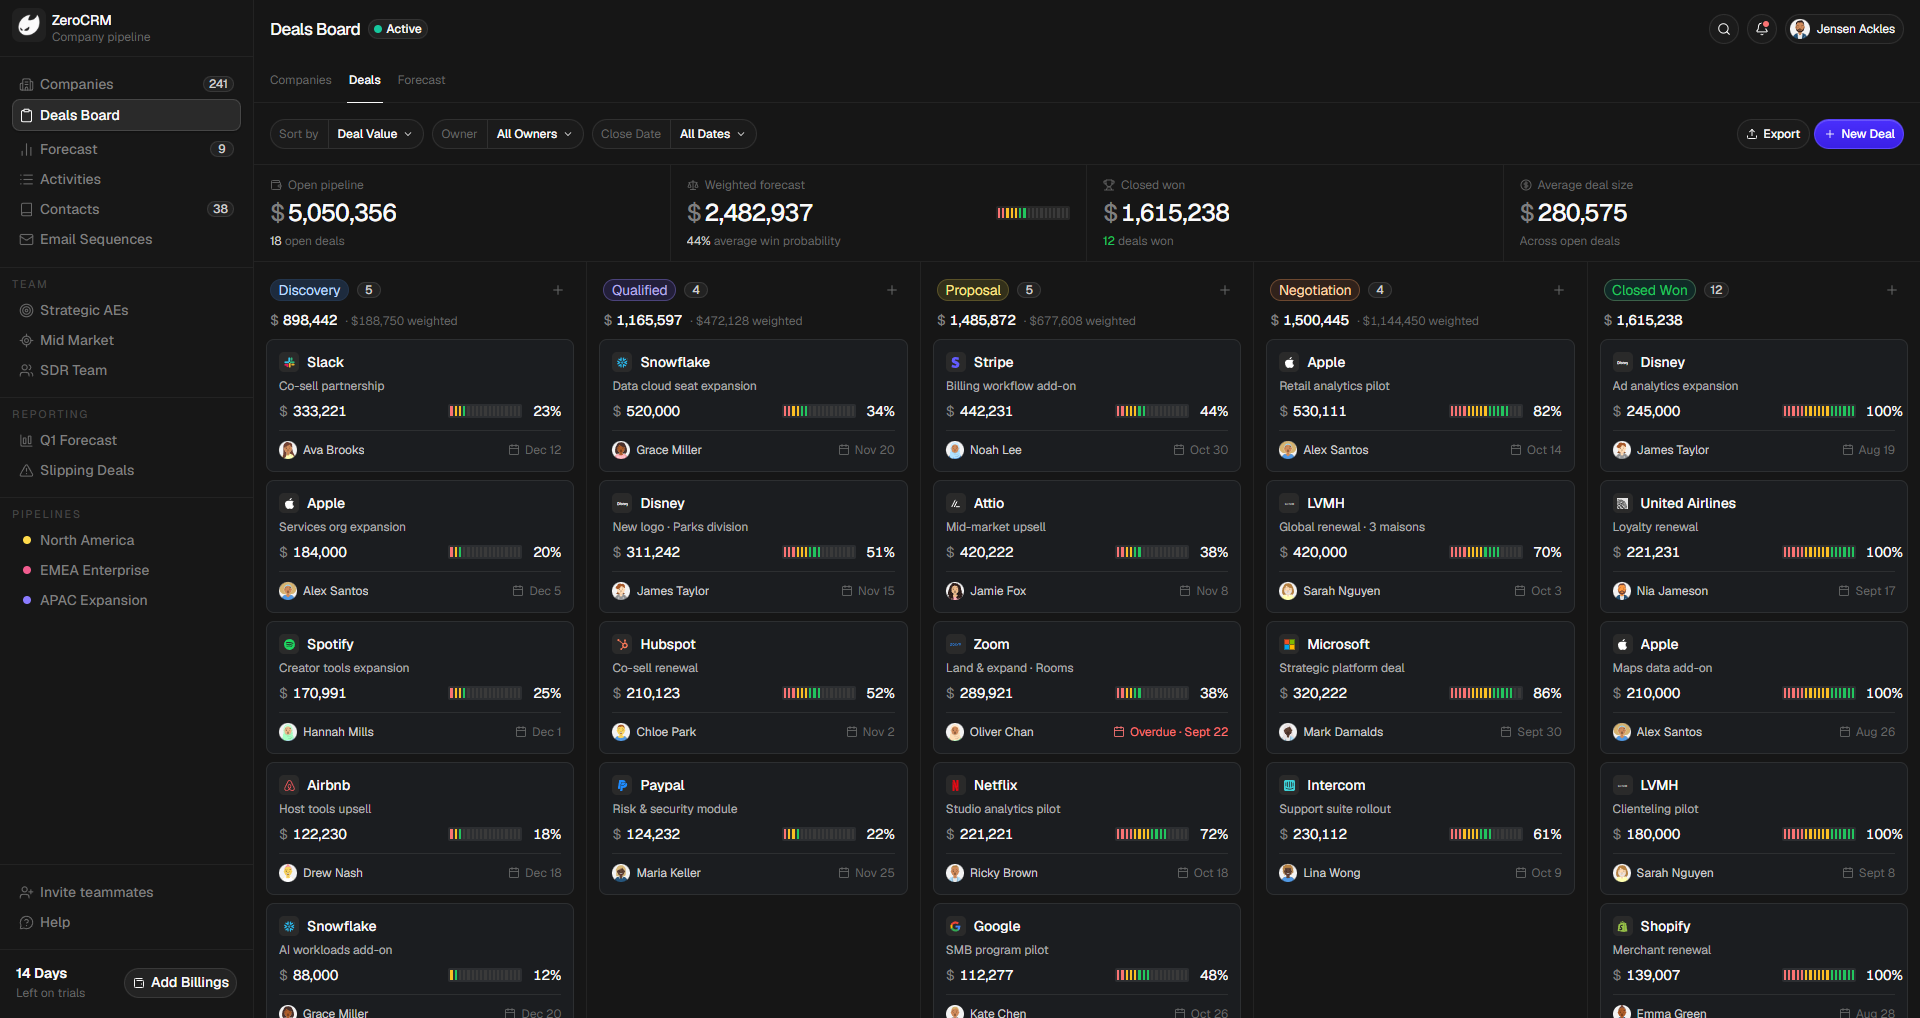
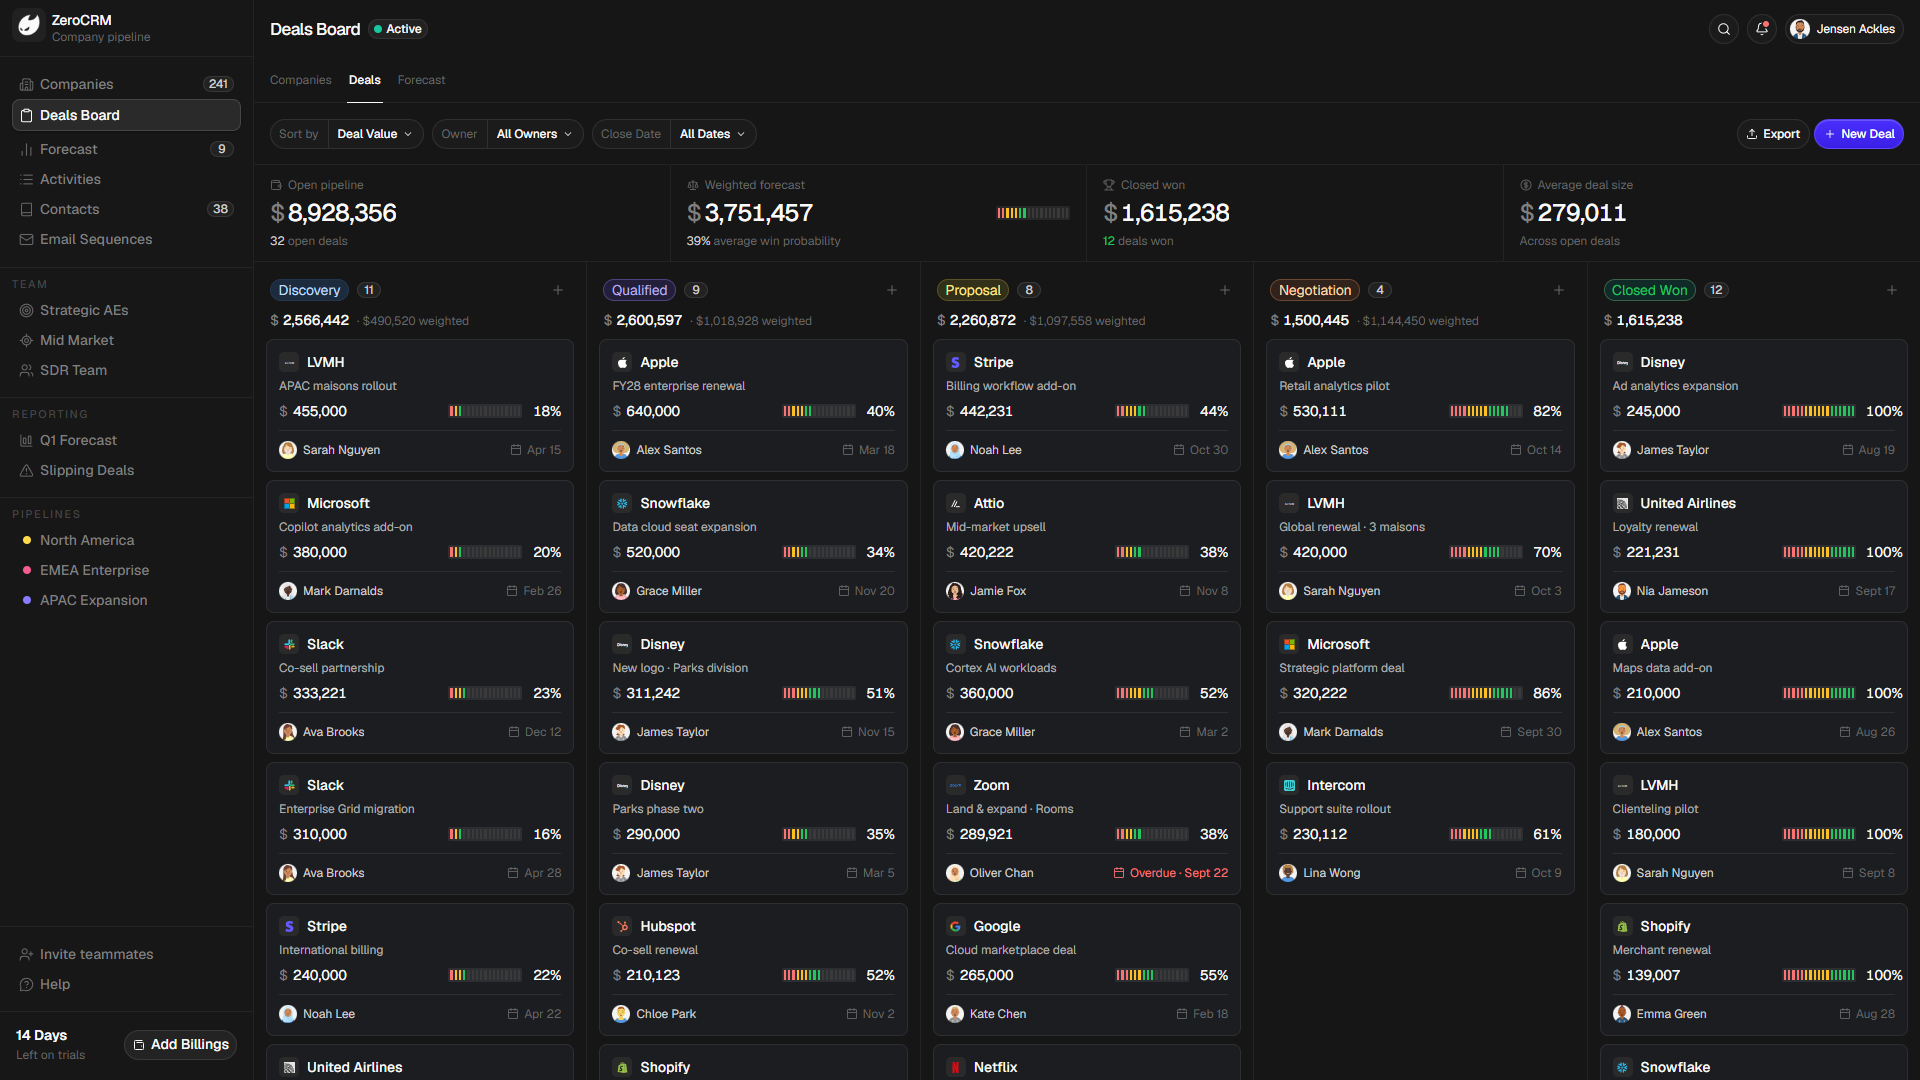
Q1 Forecast and Slipping Deals page done

diff --git a/DESIGN.md b/DESIGN.md
@@ -80,6 +80,12 @@ colors:
   scrim-modal: "rgba(0,0,0,0.25)"   # + 6px backdrop blur
 
 typography:
+  display-hero:        # the single gauge readout on a report page (Q1 Forecast) — nothing else
+    fontFamily: "Geist, ui-sans-serif, system-ui, sans-serif"
+    fontSize: 40px
+    fontWeight: 600
+    lineHeight: 1
+    letterSpacing: -1.2px
   display-metric:
     fontFamily: "Geist, ui-sans-serif, system-ui, sans-serif"
     fontSize: 28px
@@ -562,6 +568,41 @@ components:
     hero: "'Meetings booked' 28px/600 count with '/quota' in 18px muted; % of quota + pacing % on the right; 34-segment bar"
     figures: "Calls · Emails · Connect rate"
     footer: "partner AE chip ('Books for …') + sourced $ · n deals; 14-week meetings sparkline"
+  radial-gauge:
+    geometry: "semicircle, 41 annular segments (R 148, 24px thick, 0.9° gaps) in a 320-wide viewBox, max 360px"
+    fill: "win-meter ramp (gradientColors) for round(attainment × 41) segments, rest {colors.meter-empty}"
+    marker: "2px {colors.ink} tick for the secured share, rotated into place on --ease-ios (700ms)"
+    readout: "{typography.display-hero} % inside the arc + {typography.label} projected $ + gap line ({colors.alert} short / {colors.meter-green} ahead)"
+    motion: "segments seg-in staggered 14ms; readout numbers count up with useTween"
+  waterfall:
+    height: 280px
+    columns: "six equal columns: sources float on the running total, a restacked total, then the gap (hatched coral) or cushion (hatched green)"
+    bars: "42% of column, max 64px, {rounded.bar}; not-yet-created value = dashed {colors.muted} outline on 4% white"
+    connectors: "1px dashed {colors.hairline-overlay} from each bar top to the next bar"
+    target: "dashed {colors.series-target} line across all columns with inline 'Quota $3.4M'"
+    labels: "value 12px above each bar; name {typography.control} + hint 11px under the baseline (short names on phones)"
+  scenario-tile:
+    look: "8px card, 1px {colors.border-card}; active = #55585c border + {colors.surface-card} fill + 6px {colors.live} dot"
+    content: "name {typography.control} · {typography.metric} $ · 34-segment win-meter-bar · % of quota + gap · 11px assumptions line"
+  bubble-chart:
+    axes: "x = close date (month dividers dashed 2 4), y = win probability 0–100% on hairlines"
+    bubble: "r ∝ √value (max 28px, 18px on phones), fill = stage tag text colour at 18% (32% hover), 1px stroke at 75%, 2px centre dot"
+    hover: "others dim to 35%, chart-tooltip (208px) with value / probability / weighted / close / owner; click opens the deal sheet"
+    labels: "company name beside bubbles ≥ $250K on desktop, flipped left near the edge"
+  slip-trail:
+    row: "grid 260px label · track · 132px values, 52px min (phones: label row over a full-width track)"
+    marks: "11px hollow ring = first commit, 7px rings = intermediate pushes, 12px solid dot ringed in {colors.canvas} = current close"
+    line: "2px, {colors.meter-amber} within quarter / {colors.meter-red} left quarter · repeat · overdue; overdue adds a dashed coral run to Today and a live-pulse dot"
+    axis: "quarter labels ({typography.overline}-style, 11px) on hairline boundaries, months 11px {colors.muted}, a 'Today' pill on {colors.hairline-overlay}"
+    motion: "lines grow-x from the original date (45ms stagger), dots bubble-in after; recommitted rows play row-in"
+  sankey:
+    height: 272px
+    nodes: "8px {colors.body} bars, {rounded.bar}, 14px gaps; label + compact $ outside"
+    ribbons: "cubic bands, {colors.meter-amber} (stayed) / {colors.meter-red} (moved out) at 34% — 55% hovered, 14% others"
+  review-deck:
+    container: "{components.dialog}; progress = one 10×4px pill per deal (done green, current ink, pending empty)"
+    card: "{colors.surface-card} card with date chips (current chip tinted by severity), three figures and a stage tag; enters with deck-in (460ms --ease-ios)"
+    actions: "four 74px action tiles (Keep · +2 weeks · Next quarter · Mark won) + a native date input; toggle-tag reasons"
   stage-track:
     segments: "5 × 6px bars, 4px gap, {rounded.bar}"
     filled: "{colors.meter-green} (completed + current)"
@@ -752,6 +793,8 @@ No photography. Imagery is limited to square brand logos on `logo-tile` (radius 
 - **Contacts page** — KPI strip, then a `contact-card` grid (continuous from `md`; on phones grouped under sticky letter/company headers with the `alphabet-index`) or a dense list view (desktop/tablet, horizontal scroll + mouse pan). Persona tags use the tag palette: Champion `tag-land`, Decision maker `tag-blue`, Economic buyer `tag-purple`, Influencer `tag-teal`, Technical `tag-yellow`, Blocker `tag-red`. Relationship strength reuses the `win-meter`; >21 days without a touch reads "Going cold" in `{colors.alert}`.
 - **Team pages** (`components/team`, routes `/team/strategic-aes`, `/team/mid-market`, `/team/sdr-team`, all rendered by `TeamPage`) — AE teams share one template: KPI strip (team closed vs. quota, projected, pipeline coverage, activity), a grid of `rep-card`s, then *Leaderboard* (ranked by attainment) beside *Strategic accounts* (accounts owned by the team with furthest stage, open pipeline and health). The rep sheet reuses the entity-sheet pattern: header + `rep-status` tag, four `action-tile`s (Email · Deals · Forecast · Activity — the last three navigate with that rep's owner filter applied), quota section, open deals, account chips and recent activity. Rosters live in `lib/teams.ts` and reference existing owners, so all numbers stay live; each AE team sets its own `accountsLabel`.
 - **SDR variant** — same page skeleton with meetings as the quota: KPI strip (meetings booked + pacing, pipeline sourced, connect rate, activities), `sdr-card`s, a leaderboard by meeting attainment and a *Sourced pipeline* list (deals an SDR created; values and stages come live from the deals store). The SDR sheet shows meetings, activity tiles, the partner AE and sourced deals; *AE deals* opens the board filtered to the partner.
+- **Q1 Forecast** (`/reports/q1-forecast`, `components/reports/q1`) — next fiscal year's first quarter (FQ1 FY28, Feb–Apr) planned from today: KPI strip (quota, open Q1 pipeline + coverage, projected bookings, days to Q1), the `radial-gauge` with the scenario planner underneath (`segmented-control` presets + three sliders: win rate, weekly pipeline creation, FQ4 slip-in), a `waterfall` *Path to quota* (renewals → weighted open pipeline → FQ4 slip-in → new pipeline × win rate → projected → gap) with `scenario-tile`s, a `bubble-chart` *Q1 deal map*, a *Monthly plan* (stacked pipeline/weighted bars vs. target markers) and *Rep readiness* (coverage meter + Ready ≥1.5× `tag-land` / Building ≥0.75× `tag-yellow` / Thin `tag-red`; tapping a rep re-plans the page for them). Scenario changes glide (bars, tick, tweened numbers); owner changes replay the entrances.
+- **Slipping Deals** (`/reports/slipping-deals`, `components/reports/slipping`) — open deals whose close date has moved later or passed. KPI strip (slipped value, pushed out of quarter, average slip, repeat slippers), the `slip-trail` hero, then *Quarter flow* (`sankey`), *Why deals slip* (reason tags with share bars in the tag's text colour, days lost + pushes) and *Slip by rep* (slip rate meter, top 7 with an *All* toggle). *Start Review* opens the `review-deck`; recommitting writes the new date to the deals store and records the push, so the board, forecast and trail all update.
 - **Email Sequences page** — KPI strip (with `%` suffix values), then a master/detail split: `sequence-row` list (380px) and the detail (title + status pill + goal + `switch`, four stat tiles, `step-card` stepper with *Add step*, and the enrolled list with *Enroll contacts*). Below `lg` it becomes iOS navigation: the list is the root screen and the detail pushes in from the right (`sheet-in`) with a "‹ Sequences" back bar.
 - **Step editor sheet** — `segmented-control` for the step type, `delay-stepper`, subject + message with one-tap `{{first_name}}` / `{{company}}` / `{{sender}}` chips that insert at the cursor, and a live preview rendered for the first enrolled contact. Delete lives bottom-left in `{colors.alert}`.
 - **Contact sheet** — header (52px avatar, name, role · company, star), persona tags, four `action-tile`s, `info-row`s, relationship (28px score, account-touch sparkline, 64-segment meter), open deals and recent activity. *Log Activity* opens the log dialog prefilled with the contact's company.
@@ -816,6 +859,8 @@ Visual controls stay 30px for density; on phones close buttons grow to 32px and 
 - **Rule:** every horizontally scrolling region must also be operable with a mouse in a narrow window (tabs, click-drag pan or header wheel) — never rely on touch swipes alone.
 - **Sheets / New Company** → bottom sheets, dismissable by dragging the header down.
 - **Topbar** → hamburger added, user pill shows avatar only.
+- **Q1 Forecast** → gauge/planner, waterfall, deal map and monthly plan stack below `lg`; waterfall labels switch to short names and hints hide on phones; bubbles shrink (max 18px) and lose their labels; rep readiness is one column below `xl` and hides deals / pipeline progressively.
+- **Slipping Deals** → trail rows become label-over-track on phones (value + slip badge beside the name), quarter labels shorten to "FQ3", alternate month labels hide; the three bottom panels stack below `xl`; the review deck is a bottom sheet with a 2×2 action grid.
 - **Forecast grid** → panels stack into one column below `lg` (hairlines move from vertical to horizontal); line chart drops to 220px below 640px; leaderboard hides values and commit hints on phones; below `sm` risk rows become two-line (company over deal title, value over reason tag).
 
 ### Image Behavior
@@ -830,6 +875,7 @@ Logos are inline SVG (Simple Icons / hand-drawn); avatars are generated SVG data
 - Press: `scale: .97` in 90ms; wide list rows highlight instead.
 - New rows: fade/slide in with a 20% indigo wash that settles (1.6s) and scroll into view.
 - Charts: `reveal` 1.1s (clip scaleX from the plot's left edge), `bar-grow` 700ms staggered 90ms, `live-pulse` 2.4s loop on the latest actual, tooltip `pop-in`, values/markers transition 700ms on `--ease-ios` when data changes.
+- Reports: gauge `seg-in` (520ms --ease-pop, 14ms stagger), `useTween` count-ups (700–900ms ease-out cubic), `grow-x` 900ms for slip lines and share bars, `bubble-in` 620ms --ease-pop, `deck-in` 460ms for review cards; slider-driven values transition 700ms on --ease-ios instead of re-animating.
 - Activities: heatmap cells `fade-in` staggered 35ms per week column; agenda swipe tracks 1:1 and springs back 420ms `--ease-ios`; completing an item cross-fades the title to muted + strike-through (300ms).
 - Kanban: `lift` 240ms on pick-up, drop animation 420ms `--ease-ios`, `card-wash` 1.4s on the landed card, drag auto-scroll capped at ~400px/s so a finger at the edge moves one column at a time.
 - Swipe-to-dismiss: 1:1 tracking, 0.2× rubber-band past rest, dismiss past 30% or at > 0.5 px/ms.
@@ -850,7 +896,8 @@ Logos are inline SVG (Simple Icons / hand-drawn); avatars are generated SVG data
 - **Loading / skeleton states** are not designed.
 - **Disabled states** are only generic (50% opacity).
 - Every page beyond Companies (Kanban, Forecast, Activities, Contacts, Email Sequences) was designed from this system without an external reference and is documented here as built.
-- The reporting views (Q1 Forecast, Slipping Deals) and the pipeline destinations have no pages yet (they show "Coming soon").
+- The pipeline destinations (North America, EMEA Enterprise, APAC Expansion) have no pages yet (they show "Coming soon").
+- Q1 renewals ($480K) and the flat $300K rep Q1 quota are plan constants; close-date push history is seeded demo data (new pushes from the review are recorded live).
 - SDR call / email / meeting counts are roster demo data (sourced pipeline is live); FQ4 shows zeros because it hasn't started.
 - Sequences don't actually send email; step stats are demo data.
 - Demo contacts are fictional and use reserved `.example` emails and 555-01xx phone numbers.

diff --git a/README.md b/README.md
@@ -77,6 +77,10 @@ Dark, dense and fast. Fully responsive from 375&nbsp;px phones to 4K monitors, w
 - Fiscal-period switch, sort, CSV export and **Add Rep** with a period quota. One template powers both AE teams (Strategic, Mid Market).
 - **SDR Team** — meetings are the quota: meetings booked vs. quota with pacing to period end, calls, emails, connect rate, the partner AE each SDR books for, and a live **sourced pipeline** of the deals they created.
 
+### Reports — Q1 Forecast & Slipping Deals
+- **Q1 Forecast** — plan next fiscal quarter from today: a 41-segment attainment gauge, a scenario planner (win rate, weekly pipeline creation, FQ4 slip-in) that re-lights it live, a *Path to quota* waterfall from renewals to the gap, side-by-side scenarios, a bubble map of every Q1 deal and rep readiness by coverage.
+- **Slipping Deals** — every deal whose close date moved, drawn as a trail from first commit to today, a quarter-flow Sankey, why deals slip and slip rate per rep. **Start Review** walks the list deal by deal: keep, push, move to next quarter or mark won, and the whole app updates.
+
 ### Company workflow
 - **Company detail drawer** — account summary, pipeline health by stage (Discovery → Evaluation → Procurement), activity trend with touch breakdown, and editable **score cards** (star ratings saved on *Save Update*).
 - **New Company** dialog — logo upload (click or drag-and-drop, PNG/JPG/WebP/SVG ≤ 2 MB), segment, stage, owner, pipeline value, a live win-probability slider + meter, and last interaction. New rows appear instantly, glide into view and flash a soft accent.
@@ -166,6 +170,19 @@ Dark, dense and fast. Fully responsive from 375&nbsp;px phones to 4K monitors, w
   </tr>
 </table>
 
+### Reports
+
+<table>
+  <tr>
+    <td width="50%"><img src="./docs/screenshots/desktop-q1-forecast.png" alt="Q1 Forecast" /><p align="center"><sub><b>Q1 Forecast</b> — gauge, scenario planner, path to quota</sub></p></td>
+    <td width="50%"><img src="./docs/screenshots/desktop-slipping-deals.png" alt="Slipping Deals" /><p align="center"><sub><b>Slipping Deals</b> — slip trail from first commit to today</sub></p></td>
+  </tr>
+  <tr>
+    <td width="50%"><img src="./docs/screenshots/desktop-slip-review.png" alt="Slip review" /><p align="center"><sub><b>Slip review</b> — recommit deal by deal</sub></p></td>
+    <td width="50%"><img src="./docs/screenshots/mobile-q1-forecast.png" alt="Q1 Forecast on mobile" /><p align="center"><sub><b>Mobile</b> — the planner on a phone</sub></p></td>
+  </tr>
+</table>
+
 ### Mobile
 
 <img src="./docs/screenshots/mobile-showcase.png" alt="ZeroCRM on mobile: pipeline, company detail bottom sheet, navigation drawer and filters" width="100%" />
@@ -235,7 +252,8 @@ zerocrm/
 │   │   ├── activities/page.tsx   # Agenda, activity feed, heatmap, log-activity dialog
 │   │   ├── contacts/page.tsx     # Contact cards / list, contact sheet, new-contact dialog
 │   │   ├── sequences/page.tsx    # Sequence list, stepper, step editor, enroll + new dialogs
-│   │   └── team/                 # strategic-aes · mid-market · sdr-team (one TeamPage template)
+│   │   ├── team/                 # strategic-aes · mid-market · sdr-team (one TeamPage template)
+│   │   └── reports/              # q1-forecast · slipping-deals
 │   ├── globals.css               # Design tokens, motion curves, global UX rules
 │   ├── layout.tsx                # Root layout, fonts, metadata, viewport
 │   └── page.tsx                  # Redirects / → /companies
@@ -247,6 +265,7 @@ zerocrm/
 │   ├── contacts/                 # Contact card, grid + A–Z index, list view, contact sheet
 │   ├── sequences/                # Sequence list/detail, step cards, step editor, enroll dialog
 │   ├── team/                     # Team template (rep card, leaderboard, rep sheet) + sdr/ variant
+│   ├── reports/                  # q1/ (gauge, waterfall, deal map) · slipping/ (slip trail, sankey, review)
 │   ├── profile/                  # My Profile sheet
 │   ├── shell/                    # Sidebar (+ mobile drawer), topbar, notifications
 │   ├── primitives/               # Tag, SegmentedMeter, Sparkline, Checkbox, Avatar, CompanyLogo
@@ -316,6 +335,7 @@ Every colour and measurement was sampled from the reference design and lives as 
 - [x] Contacts with cards, list view and A–Z index
 - [x] Email Sequences with stepper, step editor and enrollments
 - [x] Team views — Strategic AEs, Mid Market and SDR Team
+- [x] Reports — Q1 Forecast planner and Slipping Deals
 - [ ] Reporting and pipeline views from the sidebar
 - [ ] Inline editing and bulk actions for selected rows
 - [ ] Real "Last activity" window filtering
